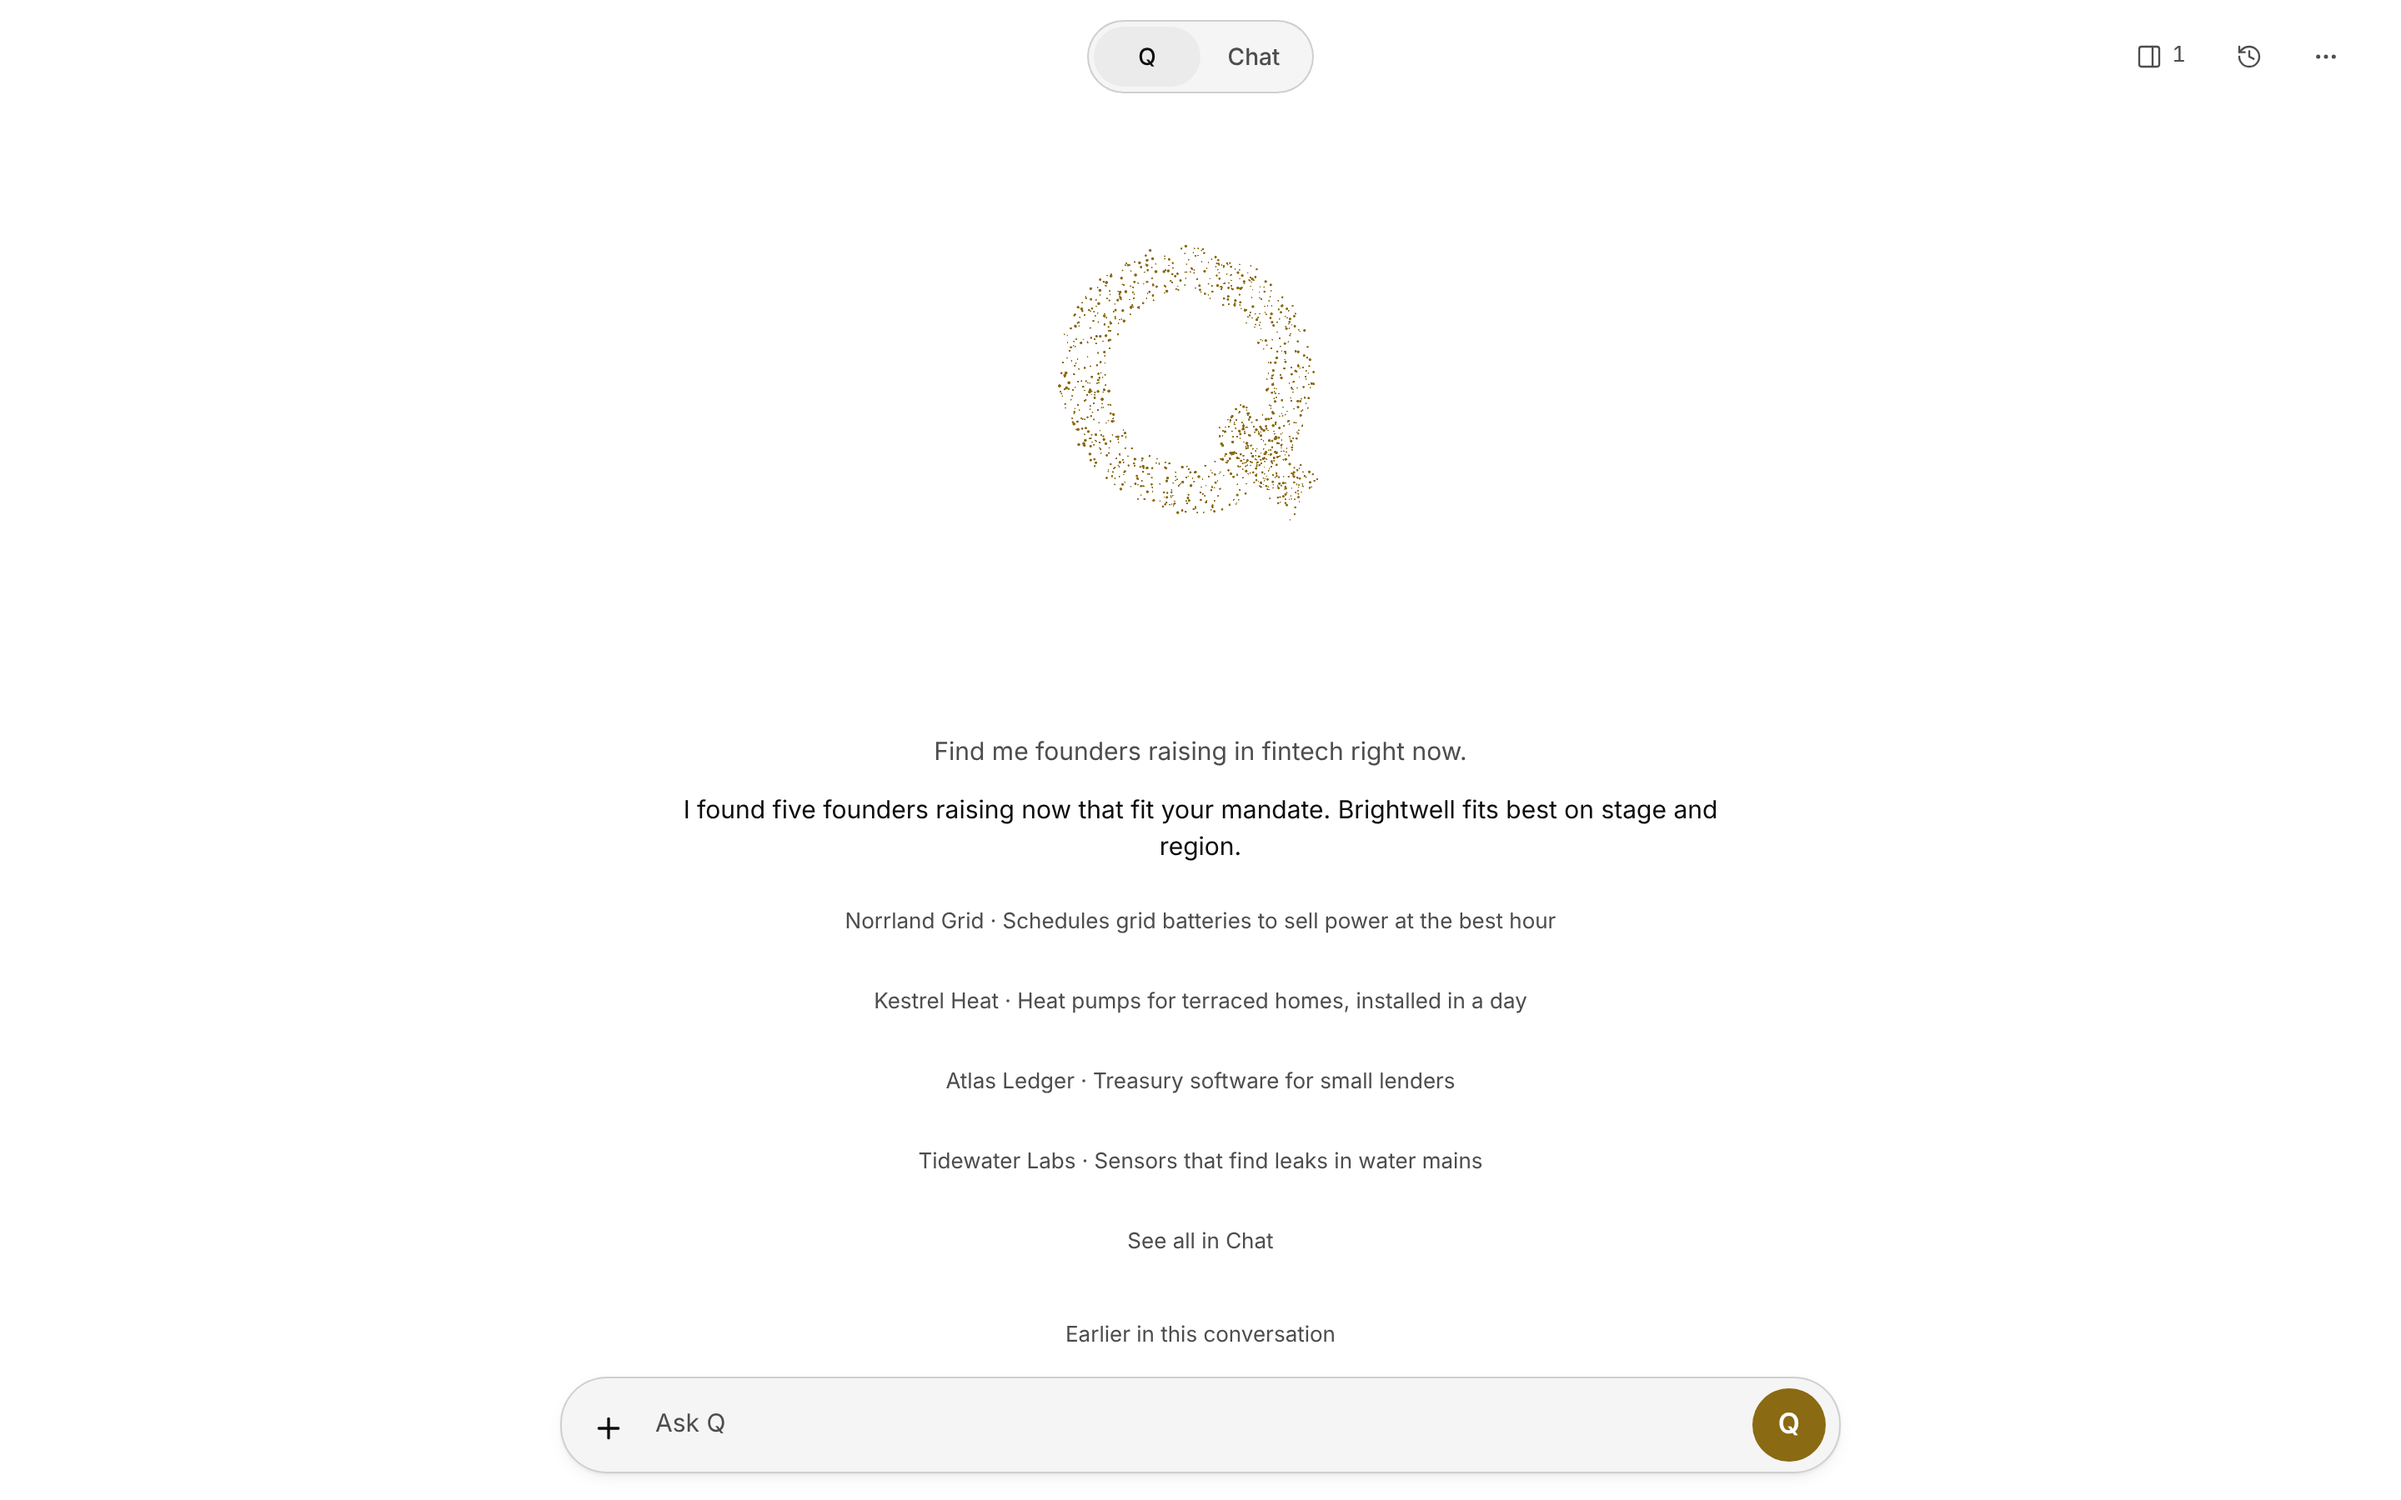
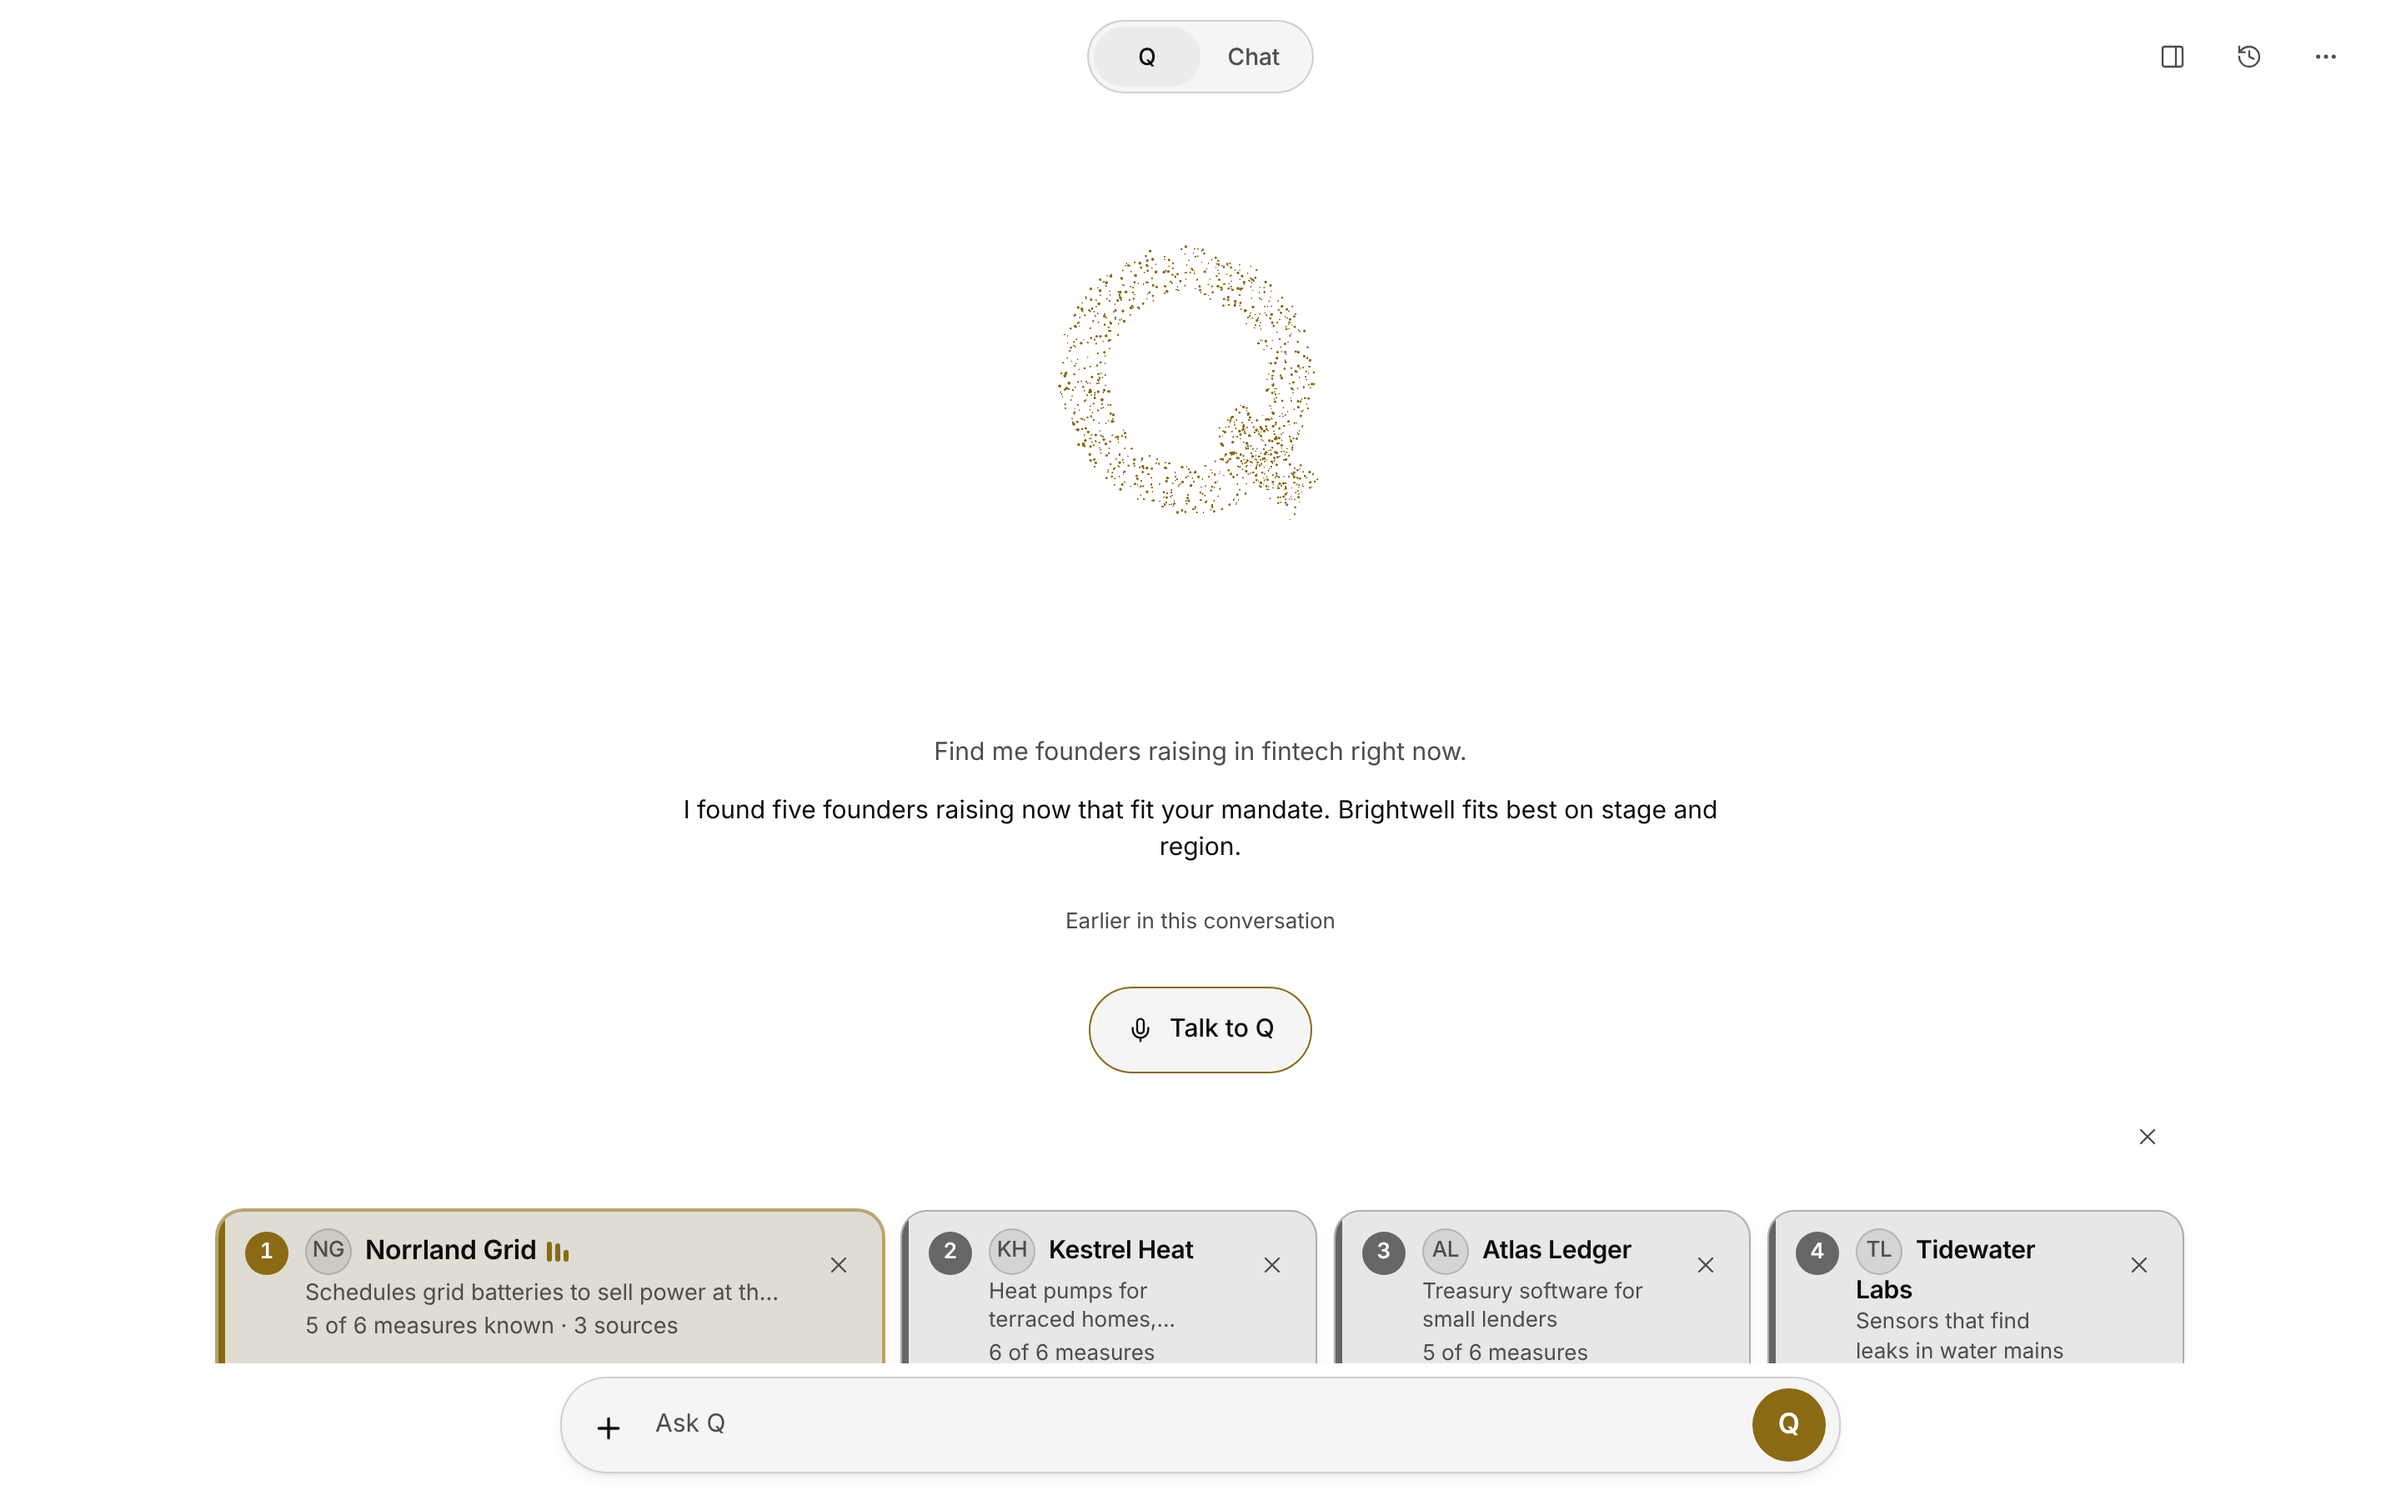
fix(web): the pinned presence stays above the cards scrolling under it; ?c= shots with full cards
Claude-Session: https://claude.ai/code/session_01Wncmn7LanmxRBs1Eoe8por

diff --git a/apps/web/app/globals.css b/apps/web/app/globals.css
@@ -5783,10 +5783,22 @@
   position: sticky;
   top: 0;
   display: flex;
-  width: 100%;
+  /* Its field reaches past the column by the stage's gutter, so the edges
+     of wide cards scrolling under it are covered too. */
+  width: calc(100% + 40px);
+  margin-inline: -20px;
   justify-content: center;
   padding-block: 8px;
   background: var(--cq-stage-canvas);
+  /* Above the cards scrolling under it (they lift on hover and focus). */
+  z-index: var(--cq-z-sticky);
+}
+/* The stage's gutter is 20px on a phone and 32px from 640px (px-5, px-8). */
+@media (min-width: 640px) {
+  .cq-voice-room-presence {
+    width: calc(100% + 64px);
+    margin-inline: -32px;
+  }
 }
 
 /*
